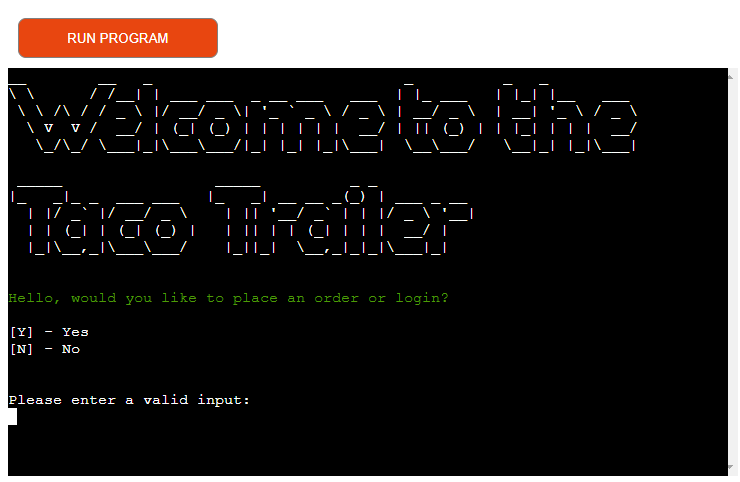
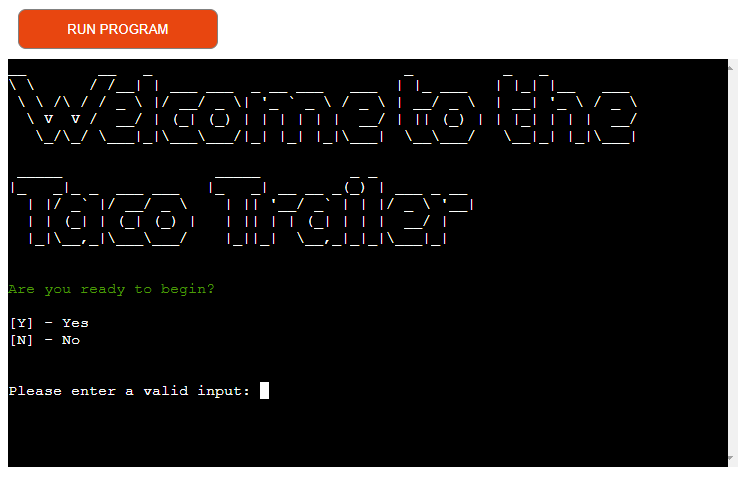
Update: Landing page image in readme file

diff --git a/README.md b/README.md
@@ -1,7 +1,7 @@
 # The Taco Trailer
 Developer: Jamie King
 
-![Mockup image](docs/images/home-screenshot.png)
+![Mockup image](docs/images/features/landing-page.png.png)
 
 The Taco Trailer website has been developed to provide users the chance to order food for delivery or pick-up via a command line based interface. 
 
